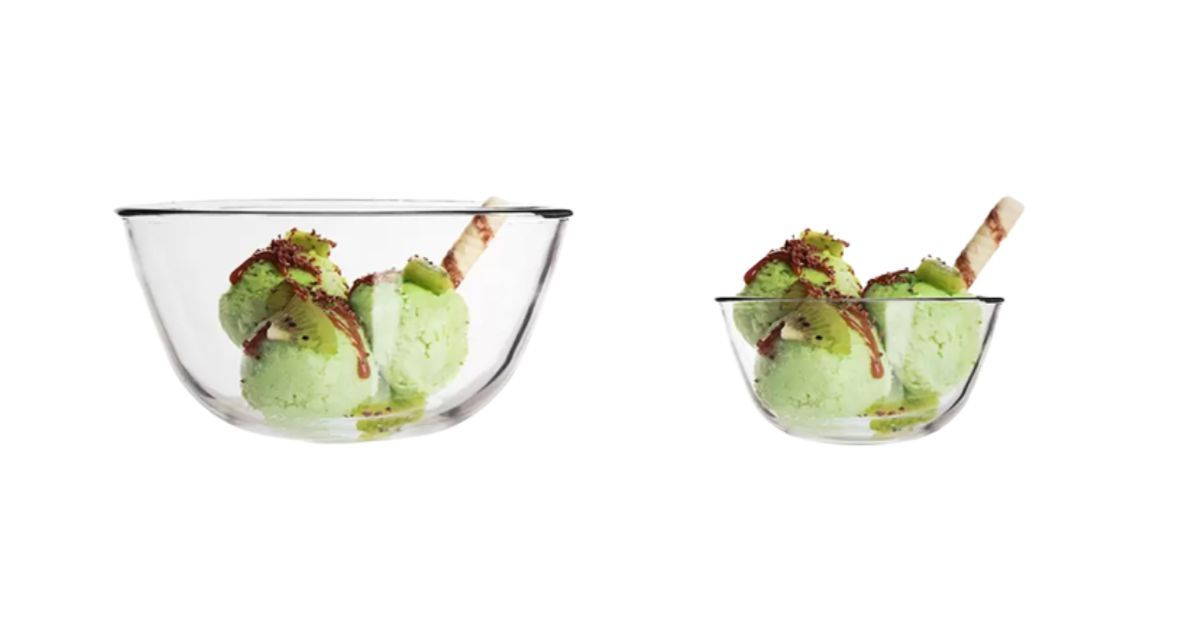
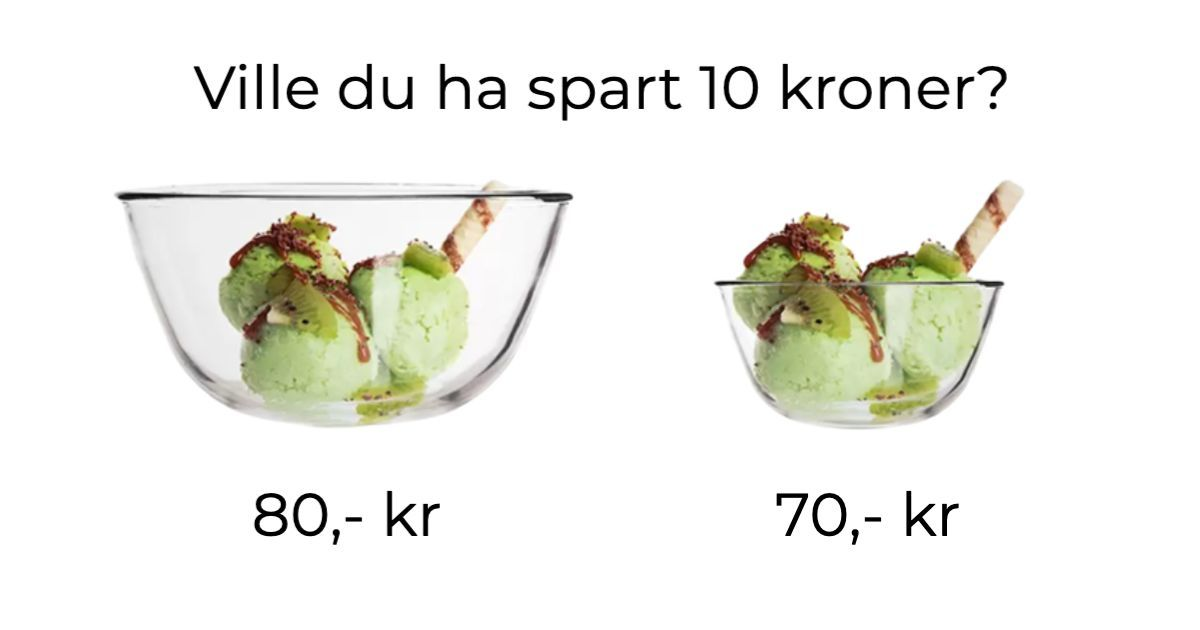
new image

diff --git a/content/blog/relativitetsbias/index.md b/content/blog/relativitetsbias/index.md
@@ -1,5 +1,5 @@
 ---
-title: "Relativitetsbias: Hvordan vet du om noe er dyrt eller billig, stort eller liten?"
+title: "Relativitetsbias: Hvordan vet du om noe er dyrt eller billig?"
 date: "2022-09-09"
 description: "Hvordan relativitet i markedsføring lurer deg til å da irrasjonelle valg"
 timeToRead: "3"
